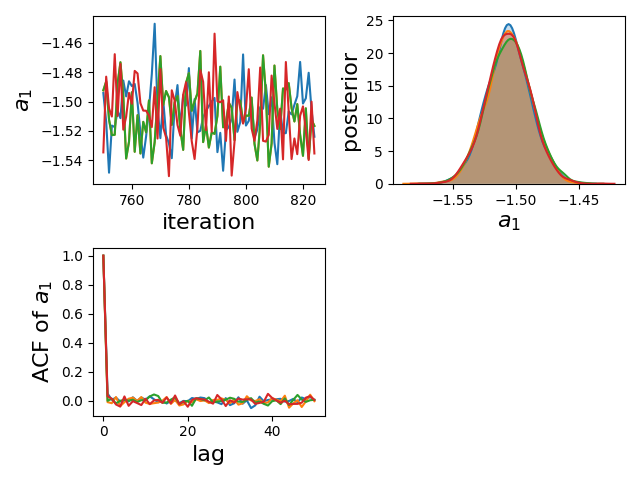
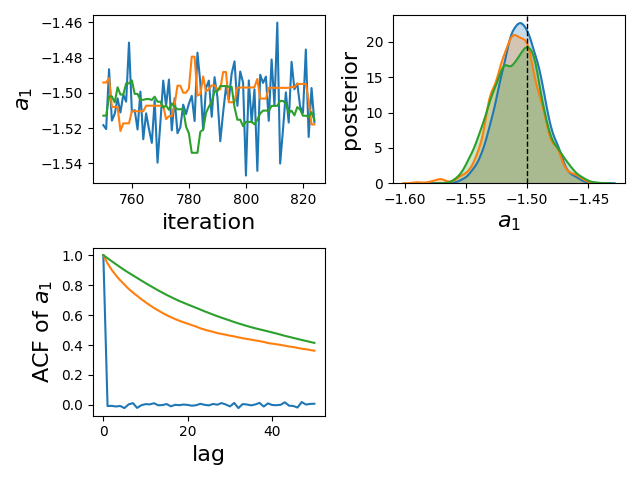
finishing off example 1 part 1

diff --git a/example1_arx_part1.py b/example1_arx_part1.py
@@ -23,8 +23,11 @@ from helpers import calculate_acf
 import matplotlib.pyplot as plt
 from helpers import plot_dbode_ML
 import seaborn as sns
-from arx_hmc import run_arx_hmc
 from scipy.io import loadmat
+
+from arx_hmc import run_arx_hmc
+from arx_mh import run_arx_mh
+
 
 
 # specific data path
@@ -35,89 +38,85 @@ data_path = 'data/arx_example_part_one.mat'
 input_order = 3         # gives the terms b_0 * u_k + b_1 * u_{k-1} + .. + b_{input_order-1} * u_{k-input_order+1}
 output_order = 2        # gives the terms a_0 * y_{k-1} + ... + a_{output_order-1}*y_{k-output_order}
 
+# load validation data with which to calculate the model fit metric
+data = loadmat(data_path)
+y_val = data['y_validation'].flatten()
+max_delay = np.max((output_order, input_order - 1))
+y_val = y_val[int(max_delay):]
 
 # estimate using hmc with horeshoe prior
-results_hmc = run_arx_hmc(data_path, input_order, output_order)
+(fit_hmc,results_hmc) = run_arx_hmc(data_path, input_order, output_order, prior='l2')
 
-# extract parameter samples
-a_coef_traces = results_hmc['a_coefs']
-b_coef_traces = results_hmc['b_coefs']
-shrinkage_param = results_hmc["shrinkage_param"]
-shrinkage_param_mean = np.mean(shrinkage_param,0)
+a_hmc = results_hmc['a_coefs']
+b_hmc = results_hmc['b_coefs']
+a_coef_mean = np.mean(a_hmc,0)
+b_coef_mean = np.mean(b_hmc,0)
+a1_hmc = a_hmc[:,0]
+acf_hmc = calculate_acf(a1_hmc)
 
-a_coef_mean = np.mean(a_coef_traces,0)
-b_coef_mean = np.mean(b_coef_traces,0)
+yhat_hmc = results_hmc['y_hat']      # validation predictions
+yhat_hmc[np.isnan(yhat_hmc)] = 0.0
+yhat_hmc[np.isinf(yhat_hmc)] = 0.0
+yhat_mean_hmc = np.mean(yhat_hmc, axis=0)
 
 
+# calculate MF
+MF_hmc = 100*(1-np.sum(np.power(y_val-yhat_mean_hmc,2))/np.sum(np.power(y_val,2)))
 
+# estimate using metropolis hastings
+results_mh = run_arx_mh(mh2=False)
+a1_mh = results_mh['a1']
+acf_mh = calculate_acf(a1_mh)
+
+# estimate using mMALA
+results_mMala = run_arx_mh(mh2=True)
+a1_mMALA = results_mMala['a1']
+acf_mMALA = calculate_acf(a1_mMALA)
 
 # check goodness of fit, and plot some diagnostics
 fontsize= 16
 
-a_1_chain1 = a_coef_traces[0:3000,0]
-a_1_chain2 = a_coef_traces[3000:6000,0]
-a_1_chain3 = a_coef_traces[6000:9000,0]
-a_1_chain4 = a_coef_traces[9000:,0]
-
 plt.subplot(2,2,1)
-plt.plot(np.arange(750,825),a_1_chain1[750:825])
-plt.plot(np.arange(750,825),a_1_chain2[750:825])
-plt.plot(np.arange(750,825),a_1_chain2[750:825])
-plt.plot(np.arange(750,825),a_1_chain3[750:825])
+plt.plot(np.arange(750,825),a1_hmc[750:825])
+plt.plot(np.arange(750,825),a1_mh[750:825])
+plt.plot(np.arange(750,825),a1_mMALA[750:825])
 plt.ylabel('$a_1$',fontsize=fontsize)
 plt.xlabel('iteration', fontsize=fontsize)
 
 plt.subplot(2,2,2)
-# plt.hist(a_1_chain1,30)
-sns.kdeplot(a_1_chain1, shade=True)
-sns.kdeplot(a_1_chain2, shade=True)
-sns.kdeplot(a_1_chain3, shade=True)
-sns.kdeplot(a_1_chain4, shade=True)
+sns.kdeplot(a1_hmc, shade=True)
+sns.kdeplot(a1_mh, shade=True)
+sns.kdeplot(a1_mMALA, shade=True)
+plt.axvline(-1.5, color='k', lw=1, linestyle='--')
 plt.xlabel('$a_1$', fontsize=fontsize)
 plt.ylabel('posterior', fontsize=fontsize)
 
-acf1 = calculate_acf(a_1_chain1)
-acf2 = calculate_acf(a_1_chain2)
-acf3 = calculate_acf(a_1_chain3)
-acf4 = calculate_acf(a_1_chain4)
-
 plt.subplot(2,2,3)
-plt.plot(acf1)
-plt.plot(acf2)
-plt.plot(acf3)
-plt.plot(acf4)
+plt.plot(acf_hmc)
+plt.plot(acf_mh)
+plt.plot(acf_mMALA)
 plt.xlabel('lag', fontsize=fontsize)
 plt.ylabel('ACF of $a_1$', fontsize=fontsize)
 # plt.legend(('chain 1','chain 2','chain 3','chain 4'), fontsize=20)
 plt.tight_layout()
-# plt.savefig("figures/example1_diagnostics.png", format='png')
+plt.savefig("figures/example1_diagnostics.png", format='png')
 plt.show()
 
 
-# extract validation data predictions
-yhat = results_hmc['y_hat']      # validation predictions
-yhat[np.isnan(yhat)] = 0.0
-yhat[np.isinf(yhat)] = 0.0
-yhat_mean = np.mean(yhat, axis=0)
-yhat_upper_ci = np.percentile(yhat, 99.5, axis=0)
-yhat_lower_ci = np.percentile(yhat, 0.5, axis=0)
 
 
 
-data = loadmat(data_path)
-y_val = data['y_validation'].flatten()
 
 plt.subplot(1,1,1)
 plt.plot(y_val,'+',linewidth=0.5)
-plt.plot(yhat_mean,linewidth=0.5)
+plt.plot(yhat_mean_hmc,linewidth=0.5)
 plt.xlabel('t',fontsize=fontsize)
 plt.ylabel('y',fontsize=fontsize)
 plt.title('One step ahead prediction for validaiton data')
 plt.legend(('Measurement','mean prediction'))
 plt.show()
 
-# calculate MF
-MF = 100*(1-np.sum(np.power(y_val-yhat_mean,2))/np.sum(np.power(y_val,2)))
+
 
 
 
@@ -126,38 +125,38 @@ fontsize = 24
 
 plt.figure(figsize=(10,8.25))
 plt.subplot(3,3,1)
-plt.hist(a_coef_traces[:,1],30, density=True)
-sns.kdeplot(a_coef_traces[:,1], shade=True)
-plt.axvline(np.mean(a_coef_traces[:,1]), color='k', lw=1, linestyle='--', label='mean')
+plt.hist(a_hmc[:,1],30, density=True)
+sns.kdeplot(a_hmc[:,1], shade=True)
+plt.axvline(np.mean(a_hmc[:,1]), color='k', lw=1, linestyle='--', label='mean')
 plt.xlabel('$a_2$', fontsize=fontsize)
 plt.ylabel('marginal', fontsize=fontsize)
 
 plt.subplot(3,3,4)
-plt.plot(a_coef_traces[:,1],b_coef_traces[:,0],'.')
+plt.plot(a_hmc[:,1],b_hmc[:,0],'.')
 plt.xlabel('$a_2$',fontsize=fontsize)
 plt.ylabel('$b_0$',fontsize=fontsize)
 
 plt.subplot(3,3,5)
-plt.hist(b_coef_traces[:,0],30, density=True)
-sns.kdeplot(b_coef_traces[:,0], shade=True)
-plt.axvline(np.mean(b_coef_traces[:,0]), color='k', lw=1, linestyle='--', label='mean')
+plt.hist(b_hmc[:,0],30, density=True)
+sns.kdeplot(b_hmc[:,0], shade=True)
+plt.axvline(np.mean(b_hmc[:,0]), color='k', lw=1, linestyle='--', label='mean')
 plt.xlabel('$b_0$', fontsize=fontsize)
 plt.ylabel('marginal', fontsize=fontsize)
 
 plt.subplot(3,3,7)
-plt.plot(a_coef_traces[:,1],b_coef_traces[:,1],'.')
+plt.plot(a_hmc[:,1],b_hmc[:,1],'.')
 plt.xlabel('$a_2$',fontsize=fontsize)
 plt.ylabel('$b_1$',fontsize=fontsize)
 
 plt.subplot(3,3,8)
-plt.plot(b_coef_traces[:,0],b_coef_traces[:,1],'.')
+plt.plot(b_hmc[:,0],b_hmc[:,1],'.')
 plt.xlabel('$b_0$',fontsize=fontsize)
 plt.ylabel('$b_1$',fontsize=fontsize)
 
 plt.subplot(3,3,9)
-plt.hist(b_coef_traces[:,1],30, density=True)
-sns.kdeplot(b_coef_traces[:,1], shade=True)
-plt.axvline(np.mean(b_coef_traces[:,1]), color='k', lw=1, linestyle='--', label='mean')
+plt.hist(b_hmc[:,1],30, density=True)
+sns.kdeplot(b_hmc[:,1], shade=True)
+plt.axvline(np.mean(b_hmc[:,1]), color='k', lw=1, linestyle='--', label='mean')
 plt.xlabel('$b_1$', fontsize=fontsize)
 plt.ylabel('marginal', fontsize=fontsize)
 
@@ -176,5 +175,5 @@ w_plot = np.logspace(-2,np.log10(3.14),w_res)
 a_ML = data['a_ML']
 b_ML = data['b_ML']
 
-plot_dbode_ML(b_coef_traces,a_coef_traces,b_true,a_true,b_ML,a_ML,Ts,w_plot)
+plot_dbode_ML(b_hmc,a_hmc,b_true,a_true,b_ML,a_ML,Ts,w_plot)
 

diff --git a/arx_hmc.py b/arx_hmc.py
@@ -28,10 +28,11 @@ import pickle
 from pathlib import Path
 
 
-def run_arx_hmc(data_path, input_order, output_order,  prior='hs'):
+def run_arx_hmc(data_path, input_order, output_order,  prior='hs', hot_start=False):
     """Input order gives the terms b_0 * u_k + b_1 * u_{k-1} + .. + b_{input_order-1} * u_{k-input_order+1}"""
     """Output order gives the terms a_0 * y_{k-1} + ... + a_{output_order-1}*y_{k-output_order} """
     """Priors can be 'hs', 'l1' and 'l2' """
+    """hot_start == True will start within 40% of the maximum likelihood results"""
 
     data = loadmat(data_path)
 
@@ -53,16 +54,29 @@ def run_arx_hmc(data_path, input_order, output_order,  prior='hs'):
     y_val = y_val[int(max_delay):]
 
     # Set up parameter initialisation, initialise from +/- 40% of the maximum likelihood estimate
-    def init_function():
-        a_init = data['a_ML'].flatten()[1:output_order + 1]
-        b_init = data['b_ML'].flatten()
-        sig_e_init = data['sig_e_ML'].flatten()
-        output = dict(a_coefs=a_init * np.random.uniform(0.6, 1.4, len(a_init))*0,
-                      b_coefs=b_init * np.random.uniform(0.6, 1.4, len(b_init))*0,
-                      sig_e=(sig_e_init * np.random.uniform(0.6, 1.4))[0],
-                      shrinkage_param=np.abs(np.random.standard_cauchy(1))[0]
-                      )
-        return output
+    if hot_start == True:
+        def init_function():
+            a_init = data['a_ML'].flatten()[1:output_order + 1]
+            b_init = data['b_ML'].flatten()
+            sig_e_init = data['sig_e_ML'].flatten()
+            output = dict(a_coefs=a_init * np.random.uniform(0.6, 1.4, len(a_init)),
+                          b_coefs=b_init * np.random.uniform(0.6, 1.4, len(b_init)),
+                          sig_e=(sig_e_init * np.random.uniform(0.6, 1.4))[0],
+                          shrinkage_param=np.abs(np.random.standard_cauchy(1))[0]
+                          )
+            return output
+    else:
+        def init_function():
+            a_init = data['a_ML'].flatten()[1:output_order + 1]
+            b_init = data['b_ML'].flatten()
+            sig_e_init = data['sig_e_ML'].flatten()
+            output = dict(a_coefs=a_init * 0,
+                          b_coefs=b_init * 0,
+                          shrinkage_param=np.abs(np.random.standard_cauchy(1))[0]
+                          )
+            return output
+
+
 
     # save_file = Path("./normal_model.pkl")
 
@@ -113,4 +127,4 @@ def run_arx_hmc(data_path, input_order, output_order,  prior='hs'):
     # extract the results
     traces = fit.extract()
 
-    return traces
+    return (fit,traces)

diff --git a/arx_mh.py b/arx_mh.py
@@ -102,7 +102,7 @@ def run_arx_mh( mh2=True):
     output = {'sigmae': theta[no_burnin_iters:no_iters, order_ab]}
 
     for i in range(order_a):
-        a_name = 'a' + str(i)
+        a_name = 'a' + str(i+1)
         # the negative sign is needed because of how the regressor matrix was defined for the metropolis hastings function
         output.update({a_name: -theta[no_burnin_iters:no_iters, 0 + i]})
 
@@ -120,7 +120,7 @@ def run_arx_mh( mh2=True):
         output.update({'method':'mh0'})
 
 
-    print(np.mean(theta[no_burnin_iters:no_iters, :], axis=0))
+    # print(np.mean(theta[no_burnin_iters:no_iters, :], axis=0))
 
     return output
 
